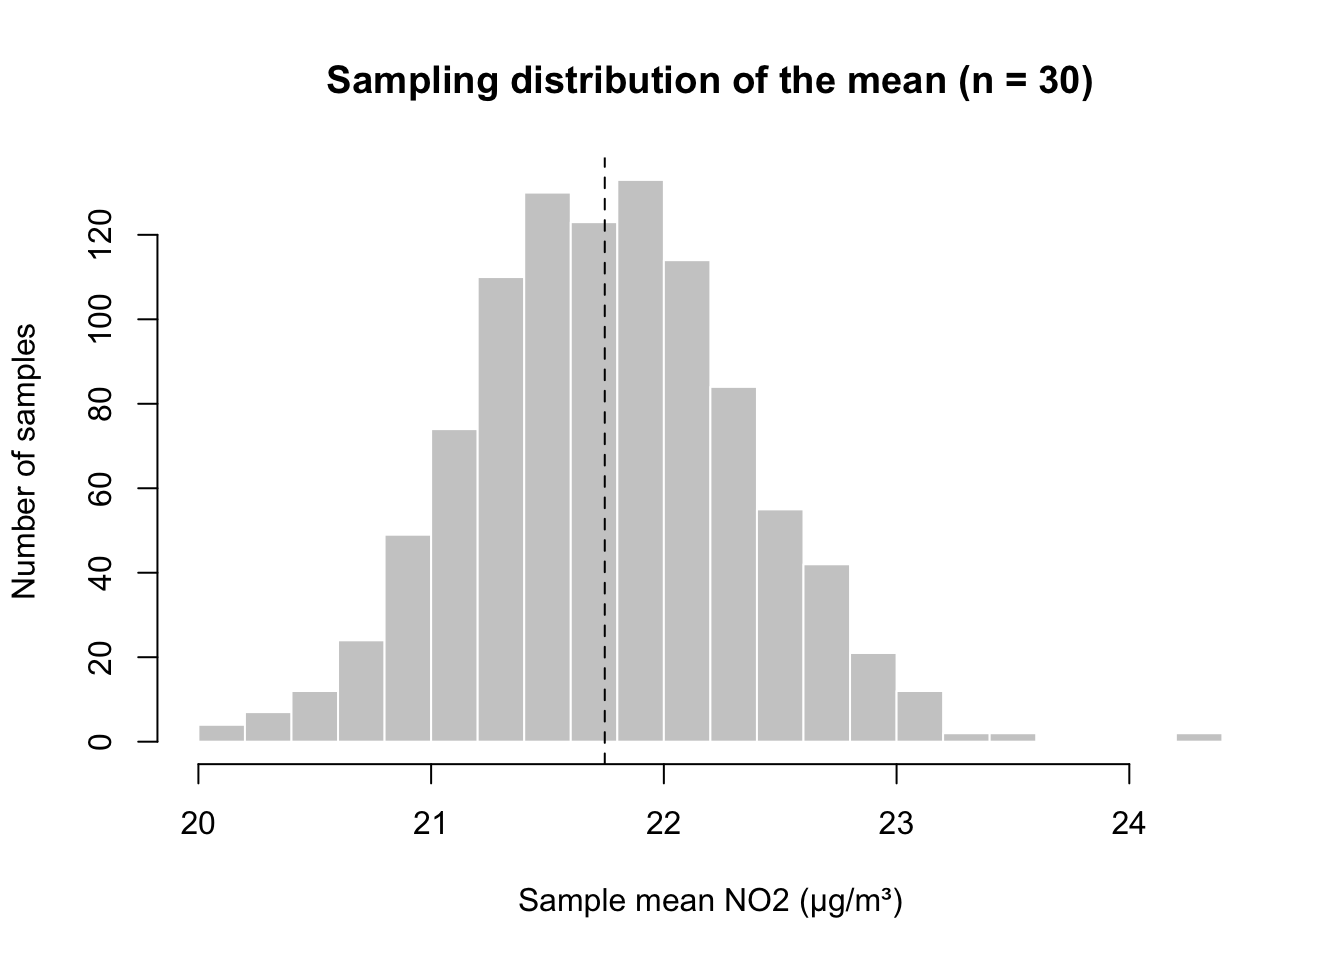
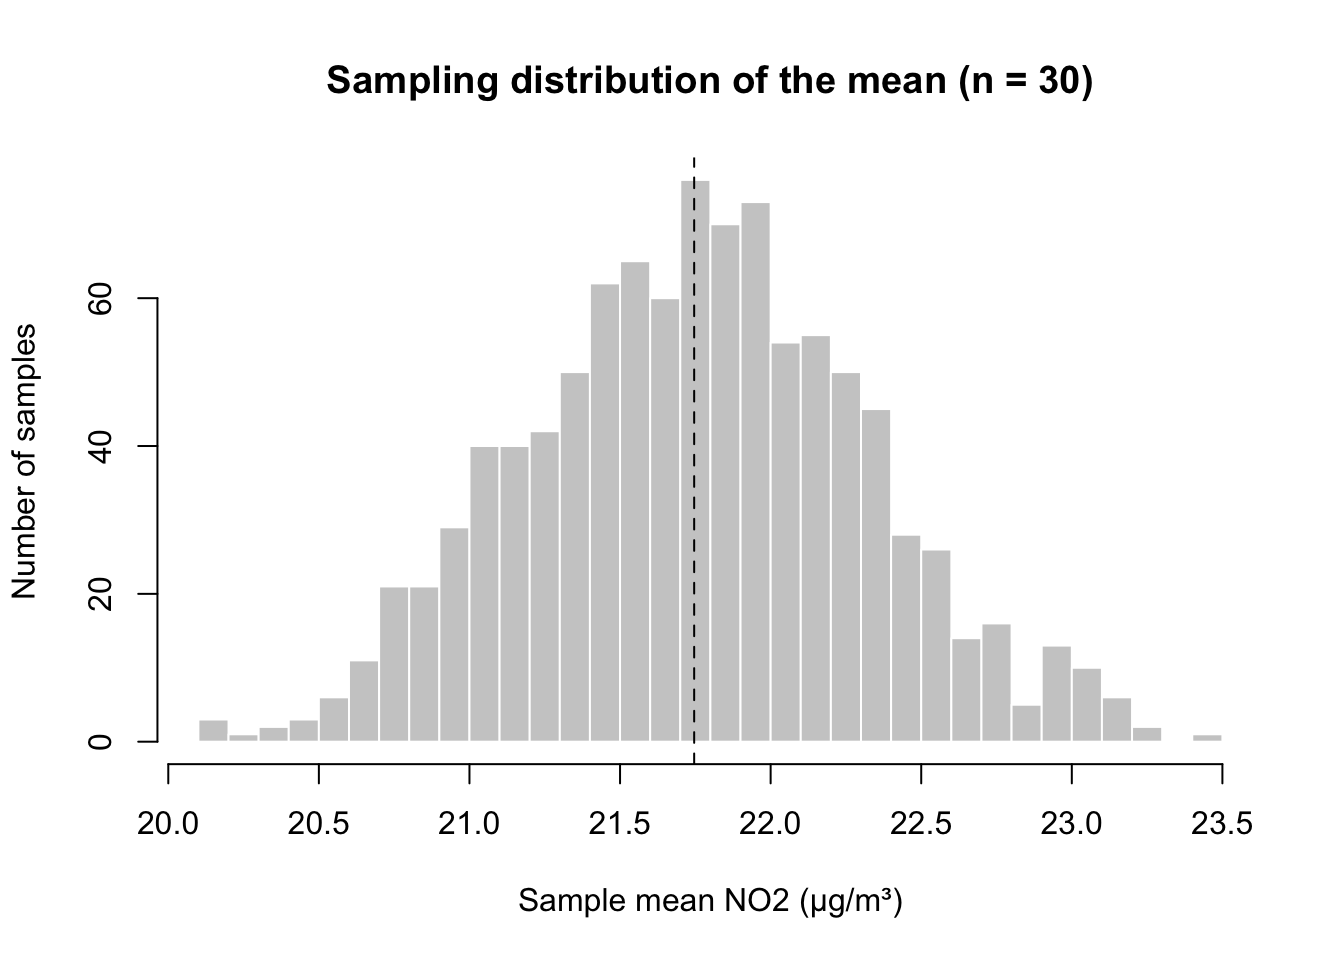
Page 06: use seed 48, matching page 07

diff --git a/docs/06-uncertainty.html b/docs/06-uncertainty.html
@@ -525,7 +525,7 @@ window.Quarto = {
 <pre><strong>R code</strong></pre>
 </div>
 <div class="code-copy-outer-scaffold"><div class="sourceCode cell-code" id="cb3"><pre class="sourceCode r code-with-copy"><code class="sourceCode r"><span id="cb3-1"><a href="#cb3-1" aria-hidden="true" tabindex="-1"></a><span class="co"># fix the random numbers (try your own number too)</span></span>
-<span id="cb3-2"><a href="#cb3-2" aria-hidden="true" tabindex="-1"></a><span class="fu">set.seed</span>(<span class="dv">38</span>)</span>
+<span id="cb3-2"><a href="#cb3-2" aria-hidden="true" tabindex="-1"></a><span class="fu">set.seed</span>(<span class="dv">48</span>)</span>
 <span id="cb3-3"><a href="#cb3-3" aria-hidden="true" tabindex="-1"></a></span>
 <span id="cb3-4"><a href="#cb3-4" aria-hidden="true" tabindex="-1"></a><span class="co"># a random sample of 30 LSOAs</span></span>
 <span id="cb3-5"><a href="#cb3-5" aria-hidden="true" tabindex="-1"></a>my_sample <span class="ot">&lt;-</span> lsoa <span class="sc">|&gt;</span></span>
@@ -535,10 +535,10 @@ window.Quarto = {
 <span id="cb3-9"><a href="#cb3-9" aria-hidden="true" tabindex="-1"></a><span class="fu">mean</span>(my_sample<span class="sc">$</span>no2)</span></code></pre></div><button title="Copy to Clipboard" class="code-copy-button"><i class="bi"></i></button></div>
 </div>
 <div class="cell-output cell-output-stdout">
-<pre><code>[1] 21.97</code></pre>
+<pre><code>[1] 21.30667</code></pre>
 </div>
 </div>
-<p>Our estimate is close to the true mean, but not exactly the same. Now change <code>38</code> to any other number, run the lines again, and compare your result with your neighbour’s: everyone will get a slightly different estimate. This variation from one sample to the next is called <strong>sampling variability</strong>, and it is what the rest of this session is about.</p>
+<p>Our estimate is close to the true mean, but not exactly the same. Now change <code>48</code> to any other number, run the lines again, and compare your result with your neighbour’s: everyone will get a slightly different estimate. This variation from one sample to the next is called <strong>sampling variability</strong>, and it is what the rest of this session is about.</p>
 </section>
 <section id="taking-many-samples" class="level2" data-number="6.3">
 <h2 data-number="6.3" class="anchored" data-anchor-id="taking-many-samples"><span class="header-section-number">6.3</span> Taking many samples</h2>
@@ -549,14 +549,14 @@ window.Quarto = {
 <pre><strong>R code</strong></pre>
 </div>
 <div class="code-copy-outer-scaffold"><div class="sourceCode cell-code" id="cb5"><pre class="sourceCode r code-with-copy"><code class="sourceCode r"><span id="cb5-1"><a href="#cb5-1" aria-hidden="true" tabindex="-1"></a><span class="co"># 1,000 samples of 30 LSOAs, keeping the mean of each</span></span>
-<span id="cb5-2"><a href="#cb5-2" aria-hidden="true" tabindex="-1"></a><span class="fu">set.seed</span>(<span class="dv">38</span>)</span>
+<span id="cb5-2"><a href="#cb5-2" aria-hidden="true" tabindex="-1"></a><span class="fu">set.seed</span>(<span class="dv">48</span>)</span>
 <span id="cb5-3"><a href="#cb5-3" aria-hidden="true" tabindex="-1"></a>sample_means <span class="ot">&lt;-</span> <span class="fu">replicate</span>(<span class="dv">1000</span>, <span class="fu">mean</span>(<span class="fu">sample</span>(lsoa<span class="sc">$</span>no2, <span class="dv">30</span>)))</span>
 <span id="cb5-4"><a href="#cb5-4" aria-hidden="true" tabindex="-1"></a></span>
 <span id="cb5-5"><a href="#cb5-5" aria-hidden="true" tabindex="-1"></a><span class="co"># the first few sample means</span></span>
 <span id="cb5-6"><a href="#cb5-6" aria-hidden="true" tabindex="-1"></a><span class="fu">head</span>(sample_means)</span></code></pre></div><button title="Copy to Clipboard" class="code-copy-button"><i class="bi"></i></button></div>
 </div>
 <div class="cell-output cell-output-stdout">
-<pre><code>[1] 21.97000 21.98333 21.97000 22.44667 22.06667 22.74333</code></pre>
+<pre><code>[1] 21.30667 22.23000 21.86000 21.73333 22.78667 21.72000</code></pre>
 </div>
 </div>
 <p>The distribution of all these sample means is called the <strong>sampling distribution</strong>. Let us plot it, together with the true mean:</p>
@@ -603,7 +603,7 @@ Figure&nbsp;1: Means of 1,000 random samples of 30 LSOAs. The dashed line is the
 <span id="cb8-2"><a href="#cb8-2" aria-hidden="true" tabindex="-1"></a><span class="fu">sd</span>(sample_means)</span></code></pre></div><button title="Copy to Clipboard" class="code-copy-button"><i class="bi"></i></button></div>
 </div>
 <div class="cell-output cell-output-stdout">
-<pre><code>[1] 0.5938312</code></pre>
+<pre><code>[1] 0.567464</code></pre>
 </div>
 </div>
 <p>In real research, we cannot draw 1,000 samples: we only have one. Fortunately, we can estimate the standard error from that single sample:</p>
@@ -620,7 +620,7 @@ SE = \frac{s}{\sqrt{n}}
 <span id="cb10-2"><a href="#cb10-2" aria-hidden="true" tabindex="-1"></a><span class="fu">sd</span>(my_sample<span class="sc">$</span>no2) <span class="sc">/</span> <span class="fu">sqrt</span>(<span class="dv">30</span>)</span></code></pre></div><button title="Copy to Clipboard" class="code-copy-button"><i class="bi"></i></button></div>
 </div>
 <div class="cell-output cell-output-stdout">
-<pre><code>[1] 0.5776717</code></pre>
+<pre><code>[1] 0.4820915</code></pre>
 </div>
 </div>
 <p>The two values are close, which means that a single sample is enough to tell us roughly how precise our estimate is.</p>
@@ -644,7 +644,7 @@ SE = \frac{s}{\sqrt{n}}
 <pre><strong>R code</strong></pre>
 </div>
 <div class="code-copy-outer-scaffold"><div class="sourceCode cell-code" id="cb12"><pre class="sourceCode r code-with-copy"><code class="sourceCode r"><span id="cb12-1"><a href="#cb12-1" aria-hidden="true" tabindex="-1"></a><span class="co"># simulated standard error for different sample sizes</span></span>
-<span id="cb12-2"><a href="#cb12-2" aria-hidden="true" tabindex="-1"></a><span class="fu">set.seed</span>(<span class="dv">38</span>)</span>
+<span id="cb12-2"><a href="#cb12-2" aria-hidden="true" tabindex="-1"></a><span class="fu">set.seed</span>(<span class="dv">48</span>)</span>
 <span id="cb12-3"><a href="#cb12-3" aria-hidden="true" tabindex="-1"></a>sizes <span class="ot">&lt;-</span> <span class="fu">tibble</span>(<span class="at">n =</span> <span class="fu">c</span>(<span class="dv">10</span>, <span class="dv">30</span>, <span class="dv">100</span>, <span class="dv">300</span>)) <span class="sc">|&gt;</span></span>
 <span id="cb12-4"><a href="#cb12-4" aria-hidden="true" tabindex="-1"></a>  <span class="fu">rowwise</span>() <span class="sc">|&gt;</span></span>
 <span id="cb12-5"><a href="#cb12-5" aria-hidden="true" tabindex="-1"></a>  <span class="fu">mutate</span>(<span class="at">se =</span> <span class="fu">sd</span>(<span class="fu">replicate</span>(<span class="dv">1000</span>, <span class="fu">mean</span>(<span class="fu">sample</span>(lsoa<span class="sc">$</span>no2, n))))) <span class="sc">|&gt;</span></span>
@@ -655,10 +655,10 @@ SE = \frac{s}{\sqrt{n}}
 <pre><code># A tibble: 4 × 2
       n    se
   &lt;dbl&gt; &lt;dbl&gt;
-1    10 1.05 
-2    30 0.608
-3   100 0.326
-4   300 0.181</code></pre>
+1    10 1.02 
+2    30 0.592
+3   100 0.328
+4   300 0.186</code></pre>
 </div>
 </div>
 <p>The standard error becomes smaller as the sample gets larger, but only slowly: we need <strong>four times</strong> as many LSOAs to <strong>halve</strong> the standard error. This is the effect of the <span class="math inline">\(\sqrt{n}\)</span> in the formula, and it is why precision is expensive.</p>
@@ -681,7 +681,7 @@ SE = \frac{s}{\sqrt{n}}
 </div>
 <div class="cell-output cell-output-stdout">
 <pre><code>   lower    upper 
-20.83776 23.10224 </code></pre>
+20.36177 22.25157 </code></pre>
 </div>
 </div>
 <p>R can also calculate this for us with the <code>t.test()</code> function. This uses a slightly larger multiplier than 1.96, taken from the <em>t</em> distribution, to allow for the fact that <span class="math inline">\(s\)</span> is itself estimated from a small sample. As a result, the interval is a little wider:</p>
@@ -694,7 +694,7 @@ SE = \frac{s}{\sqrt{n}}
 <span id="cb16-2"><a href="#cb16-2" aria-hidden="true" tabindex="-1"></a><span class="fu">t.test</span>(my_sample<span class="sc">$</span>no2)<span class="sc">$</span>conf.int</span></code></pre></div><button title="Copy to Clipboard" class="code-copy-button"><i class="bi"></i></button></div>
 </div>
 <div class="cell-output cell-output-stdout">
-<pre><code>[1] 20.78853 23.15147
+<pre><code>[1] 20.32068 22.29265
 attr(,"conf.level")
 [1] 0.95</code></pre>
 </div>
@@ -708,7 +708,7 @@ attr(,"conf.level")
 <pre><strong>R code</strong></pre>
 </div>
 <div class="code-copy-outer-scaffold"><div class="sourceCode cell-code" id="cb18"><pre class="sourceCode r code-with-copy"><code class="sourceCode r"><span id="cb18-1"><a href="#cb18-1" aria-hidden="true" tabindex="-1"></a><span class="co"># 100 samples, a 95% CI for each</span></span>
-<span id="cb18-2"><a href="#cb18-2" aria-hidden="true" tabindex="-1"></a><span class="fu">set.seed</span>(<span class="dv">38</span>)</span>
+<span id="cb18-2"><a href="#cb18-2" aria-hidden="true" tabindex="-1"></a><span class="fu">set.seed</span>(<span class="dv">48</span>)</span>
 <span id="cb18-3"><a href="#cb18-3" aria-hidden="true" tabindex="-1"></a>ci_sim <span class="ot">&lt;-</span> <span class="fu">tibble</span>(<span class="at">sample_id =</span> <span class="dv">1</span><span class="sc">:</span><span class="dv">100</span>) <span class="sc">|&gt;</span></span>
 <span id="cb18-4"><a href="#cb18-4" aria-hidden="true" tabindex="-1"></a>  <span class="fu">rowwise</span>() <span class="sc">|&gt;</span></span>
 <span id="cb18-5"><a href="#cb18-5" aria-hidden="true" tabindex="-1"></a>  <span class="fu">mutate</span>(<span class="at">values =</span> <span class="fu">list</span>(<span class="fu">sample</span>(lsoa<span class="sc">$</span>no2, <span class="dv">30</span>)),</span>
@@ -723,7 +723,7 @@ attr(,"conf.level")
 <span id="cb18-14"><a href="#cb18-14" aria-hidden="true" tabindex="-1"></a><span class="fu">sum</span>(ci_sim<span class="sc">$</span>hit)</span></code></pre></div><button title="Copy to Clipboard" class="code-copy-button"><i class="bi"></i></button></div>
 </div>
 <div class="cell-output cell-output-stdout">
-<pre><code>[1] 96</code></pre>
+<pre><code>[1] 94</code></pre>
 </div>
 </div>
 <p>We can also plot all 100 intervals:</p>
@@ -765,7 +765,7 @@ Figure&nbsp;2: 95% confidence intervals from 100 samples of 30 LSOAs. Red interv
 <pre><strong>R code</strong></pre>
 </div>
 <div class="code-copy-outer-scaffold"><div class="sourceCode cell-code" id="cb21"><pre class="sourceCode r code-with-copy"><code class="sourceCode r"><span id="cb21-1"><a href="#cb21-1" aria-hidden="true" tabindex="-1"></a><span class="co"># a sample of 30 LSOAs from Inner London only</span></span>
-<span id="cb21-2"><a href="#cb21-2" aria-hidden="true" tabindex="-1"></a><span class="fu">set.seed</span>(<span class="dv">38</span>)</span>
+<span id="cb21-2"><a href="#cb21-2" aria-hidden="true" tabindex="-1"></a><span class="fu">set.seed</span>(<span class="dv">48</span>)</span>
 <span id="cb21-3"><a href="#cb21-3" aria-hidden="true" tabindex="-1"></a>inner_sample <span class="ot">&lt;-</span> lsoa <span class="sc">|&gt;</span></span>
 <span id="cb21-4"><a href="#cb21-4" aria-hidden="true" tabindex="-1"></a>  <span class="fu">filter</span>(inner_outer <span class="sc">==</span> <span class="st">'Inner'</span>) <span class="sc">|&gt;</span></span>
 <span id="cb21-5"><a href="#cb21-5" aria-hidden="true" tabindex="-1"></a>  <span class="fu">slice_sample</span>(<span class="at">n =</span> <span class="dv">30</span>)</span>
@@ -774,7 +774,7 @@ Figure&nbsp;2: 95% confidence intervals from 100 samples of 30 LSOAs. Red interv
 <span id="cb21-8"><a href="#cb21-8" aria-hidden="true" tabindex="-1"></a><span class="fu">t.test</span>(inner_sample<span class="sc">$</span>no2)<span class="sc">$</span>conf.int</span></code></pre></div><button title="Copy to Clipboard" class="code-copy-button"><i class="bi"></i></button></div>
 </div>
 <div class="cell-output cell-output-stdout">
-<pre><code>[1] 23.65598 25.74402
+<pre><code>[1] 24.41852 26.87481
 attr(,"conf.level")
 [1] 0.95</code></pre>
 </div>
@@ -799,7 +799,7 @@ attr(,"conf.level")
 <h2 data-number="6.8" class="anchored" data-anchor-id="reporting-your-results"><span class="header-section-number">6.8</span> Reporting your results</h2>
 <p>When you report an estimate based on a sample, for instance in an essay or a worksheet, you should report its uncertainty alongside it, explain how the sample was drawn, and interpret the interval in plain words. Based on this session’s sample, this could look as follows:</p>
 <blockquote class="blockquote">
-<p>In a random sample of 30 London LSOAs, mean annual NO<sub>2</sub> was 22.0 µg/m³ (95% CI 20.8 to 23.2 µg/m³). Values for London as a whole between these two numbers are consistent with our sample.</p>
+<p>In a random sample of 30 London LSOAs, mean annual NO<sub>2</sub> was 21.3 µg/m³ (95% CI 20.3 to 22.3 µg/m³). Values for London as a whole between these two numbers are consistent with our sample.</p>
 </blockquote>
 <p>Avoid writing that there is a “95% probability” that the true mean lies in your interval (see <a href="#what-does-95-mean">What does 95% mean?</a>).</p>
 <p>Now try the same for PM<sub>2.5</sub>: draw a random sample of 30 LSOAs, report the mean with its 95% confidence interval, and check whether your interval contains the true mean.</p>
@@ -831,7 +831,7 @@ attr(,"conf.level")
 <tbody>
 <tr class="odd">
 <td style="text-align: left;">My numbers differ from the page</td>
-<td style="text-align: left;">Check that you ran <code>set.seed(38)</code> directly before the line that draws the sample. Any other seed gives different, equally valid, numbers.</td>
+<td style="text-align: left;">Check that you ran <code>set.seed(48)</code> directly before the line that draws the sample. Any other seed gives different, equally valid, numbers.</td>
 </tr>
 <tr class="even">
 <td style="text-align: left;"><code>object 'true_mean' not found</code></td>
